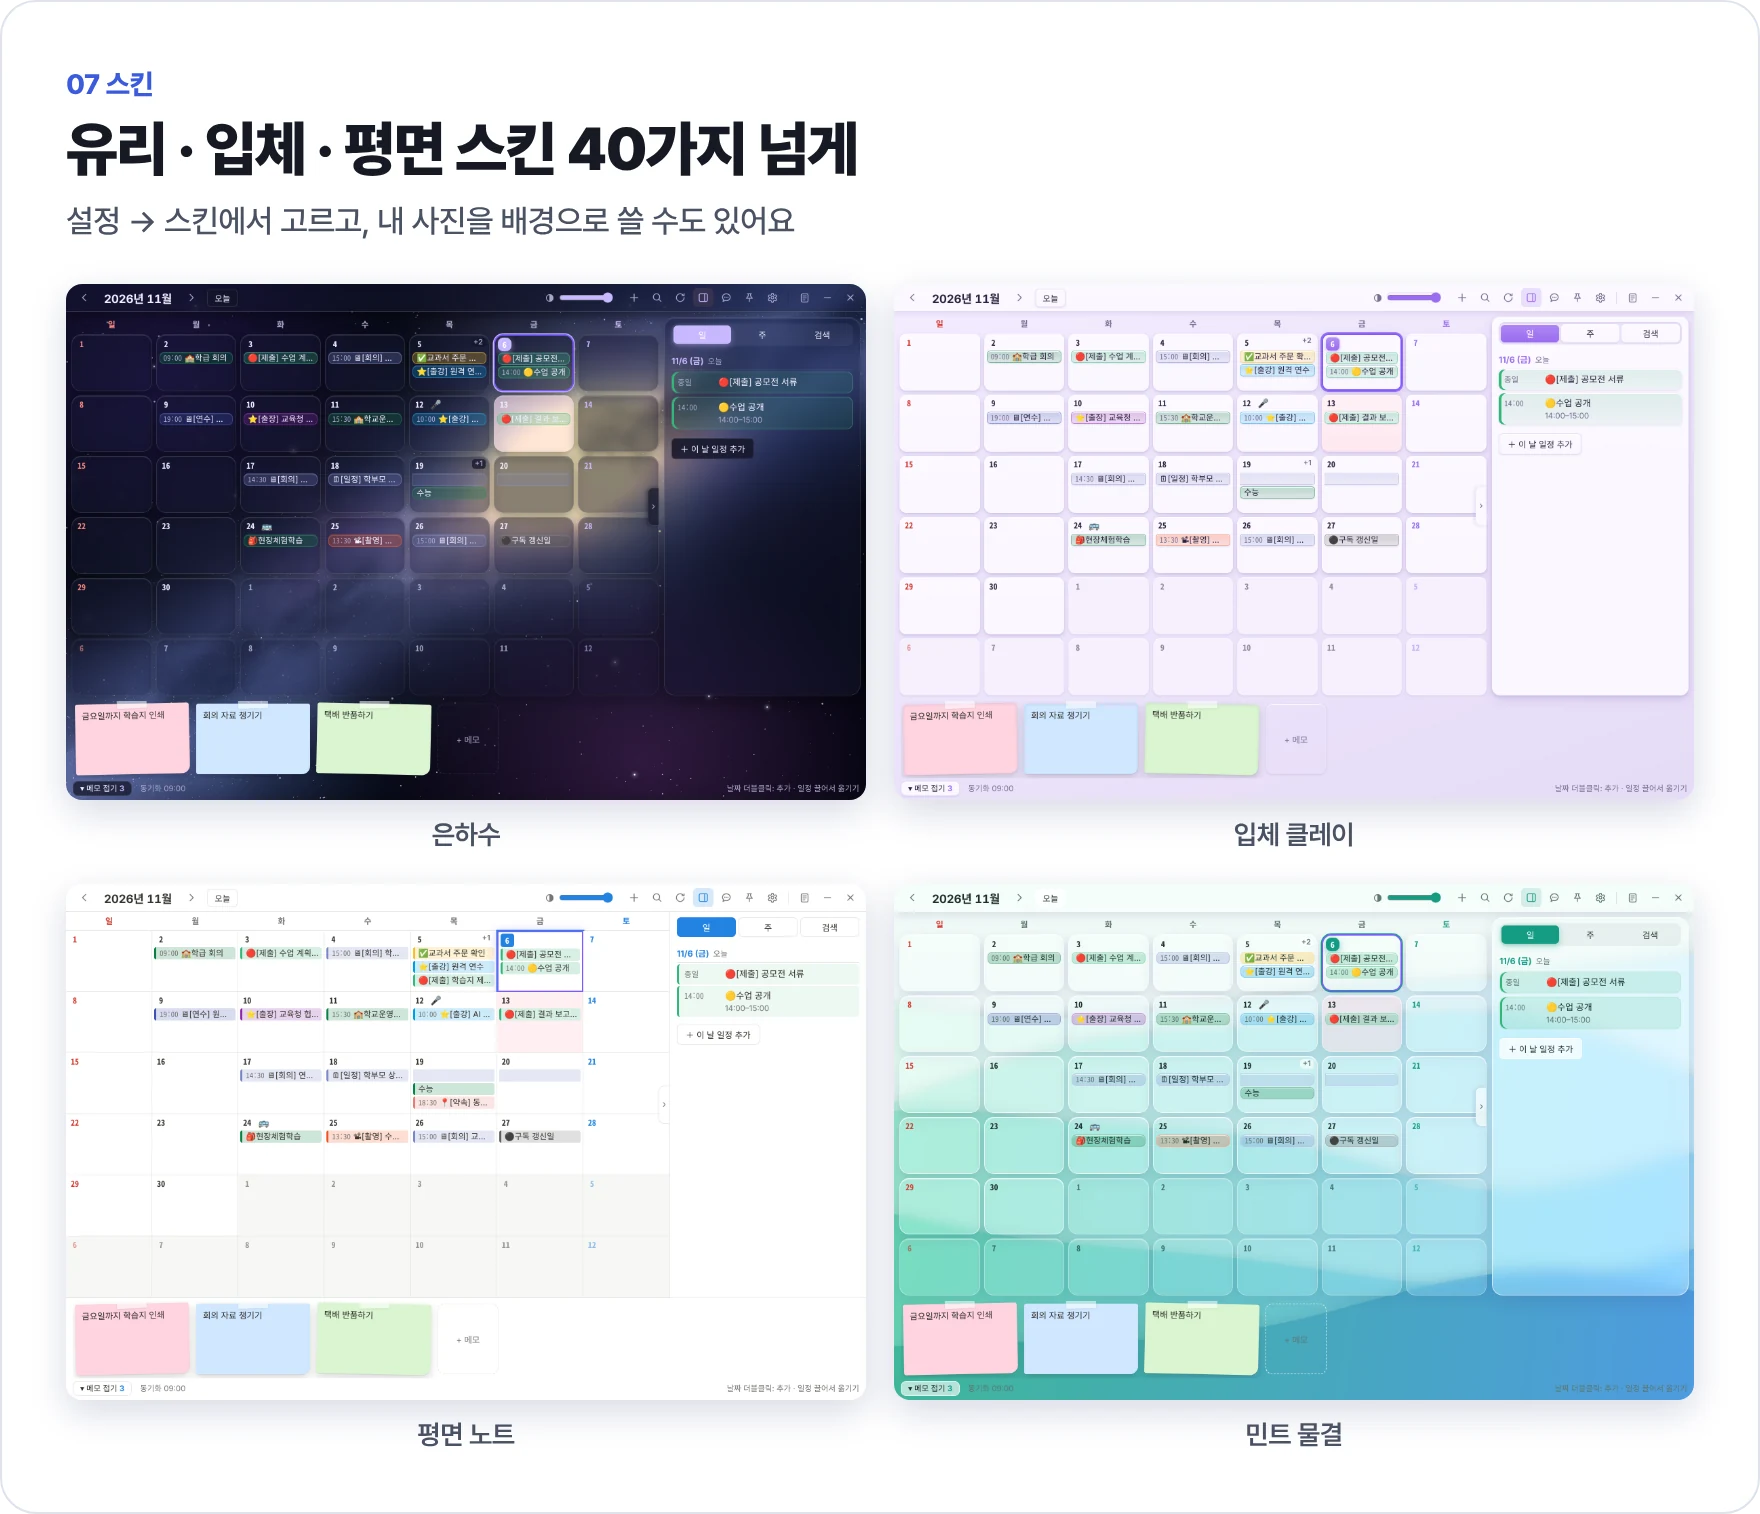
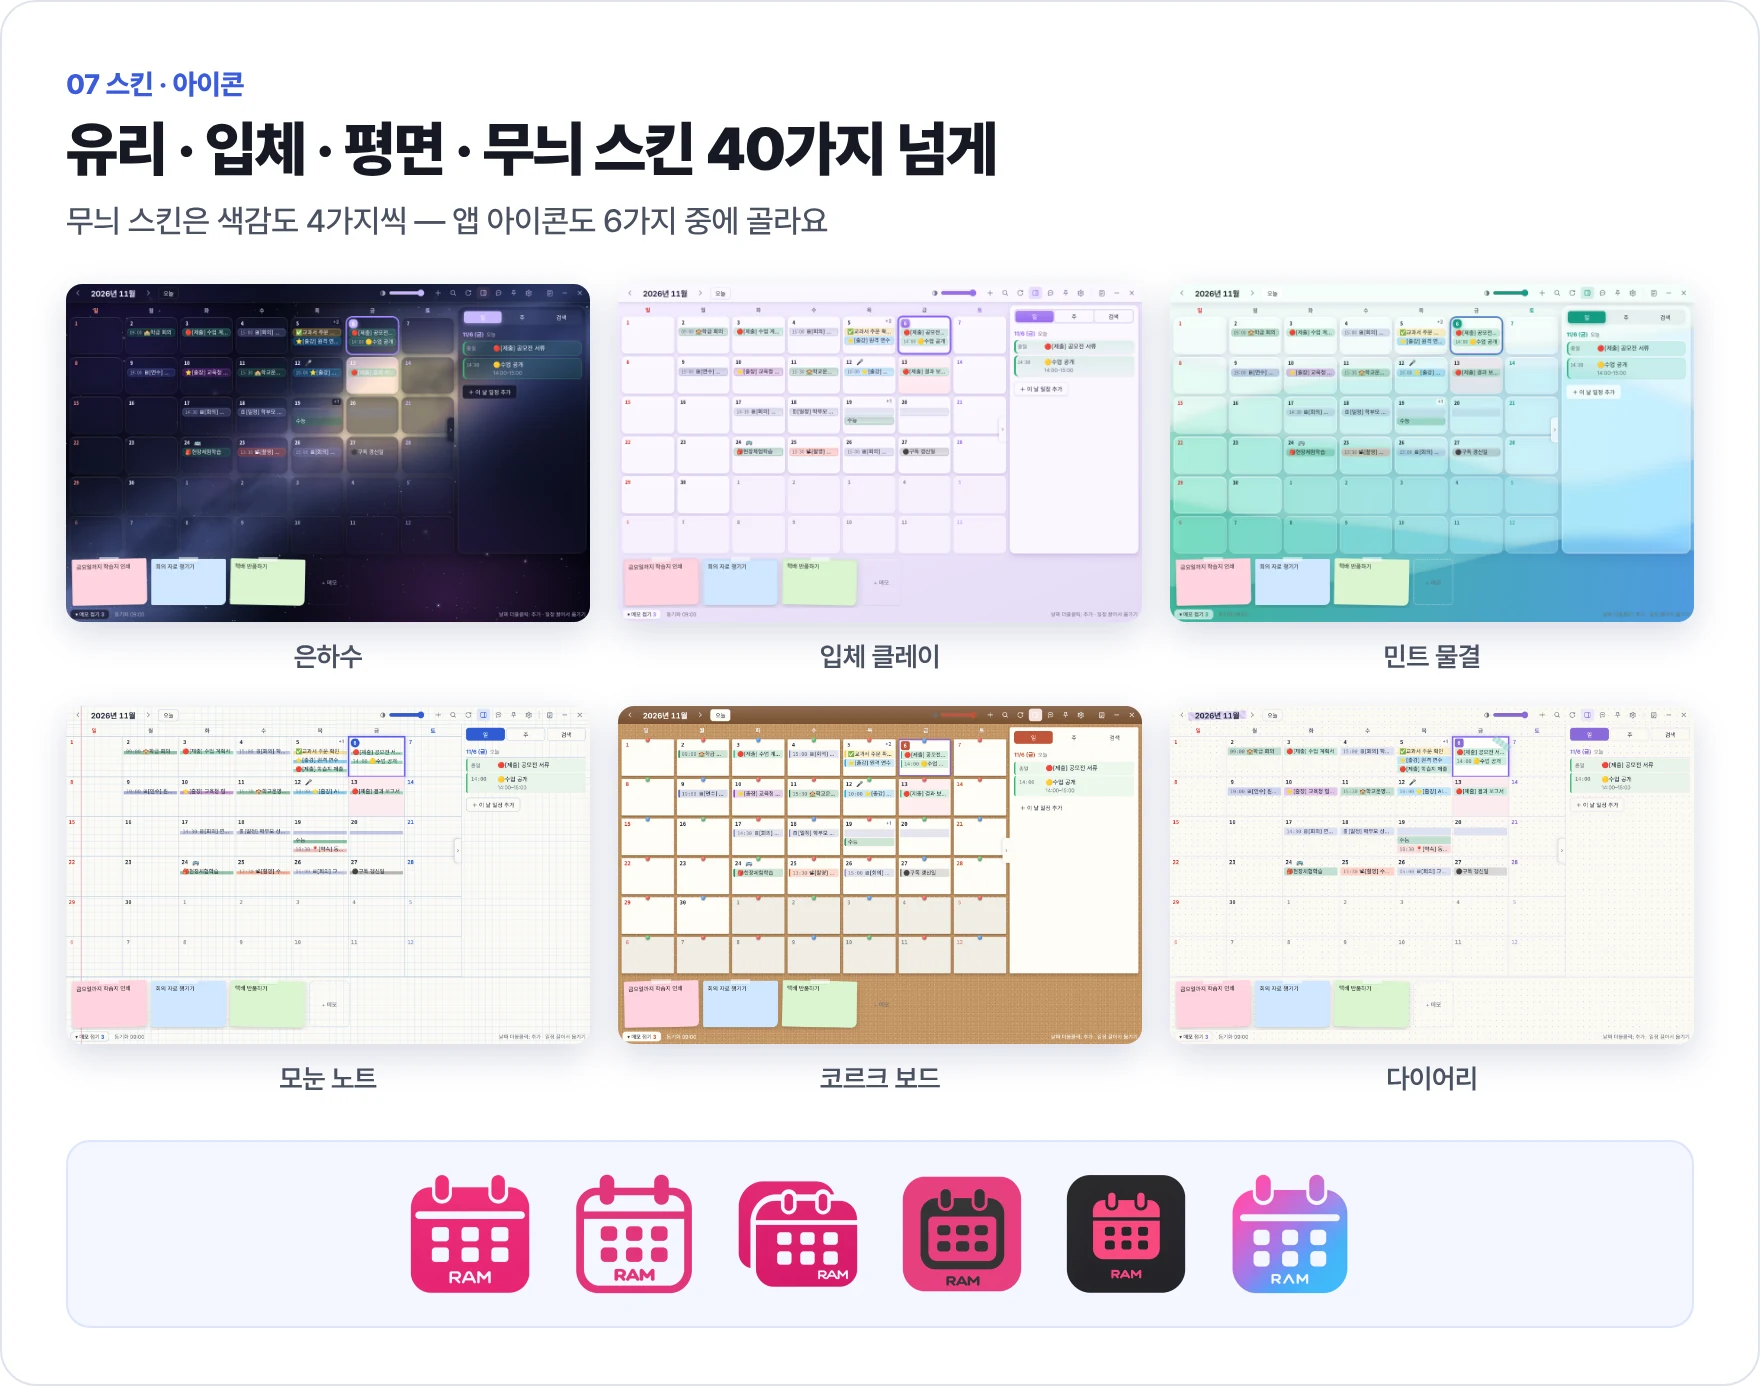
README: 새 아이콘·무늬 스킨 반영
Claude-Session: https://claude.ai/code/session_01MXNezoUE1mFAwMFAeHEYCj

diff --git a/README.md b/README.md
@@ -22,7 +22,7 @@
 | 바뀐 일정 고치기 | "기한이 변경되었습니다"를 넣으면 기존 일정을 찾아 날짜만 옮겨요 |
 | 구글 캘린더 연동 | 휴대폰에서 넣은 일정도 바탕화면 달력에 바로 보여요 |
 | 컴퓨터 알림 | 시작 30분 전 화면 오른쪽 아래에 — 휴대폰은 조용히 |
-| 꾸미기 | 날짜 칸 색 · 테두리 · 이모지, 포스트잇 메모, 스킨 40가지 넘게 |
+| 꾸미기 | 날짜 칸 색 · 테두리 · 이모지, 포스트잇 메모, 스킨 40가지 넘게(무늬 스킨 포함), 앱 아이콘 6가지 |
 
 <p align="center"><img src="docs/readme/f1.webp" width="880" alt="일정 도우미 — 글을 붙여넣으면 일정이 돼요"></p>
 <p align="center"><img src="docs/readme/f2.webp" width="880" alt="바뀐 일정 고치기 — 기존 일정 옮기기 · 새로 추가 · 건너뛰기"></p>
@@ -30,7 +30,7 @@
 <p align="center"><img src="docs/readme/f4.webp" width="880" alt="일정 추가 창과 오늘만 보기"></p>
 <p align="center"><img src="docs/readme/f5.webp" width="880" alt="컴퓨터 알림"></p>
 <p align="center"><img src="docs/readme/f6.webp" width="880" alt="날짜 칸 꾸미기와 포스트잇 메모"></p>
-<p align="center"><img src="docs/readme/f7.webp" width="880" alt="스킨 — 은하수 · 입체 클레이 · 평면 노트 · 민트 물결"></p>
+<p align="center"><img src="docs/readme/f7.webp" width="880" alt="스킨과 앱 아이콘 — 은하수 · 입체 클레이 · 민트 물결 · 모눈 노트 · 코르크 보드 · 다이어리"></p>
 
 ---
 
